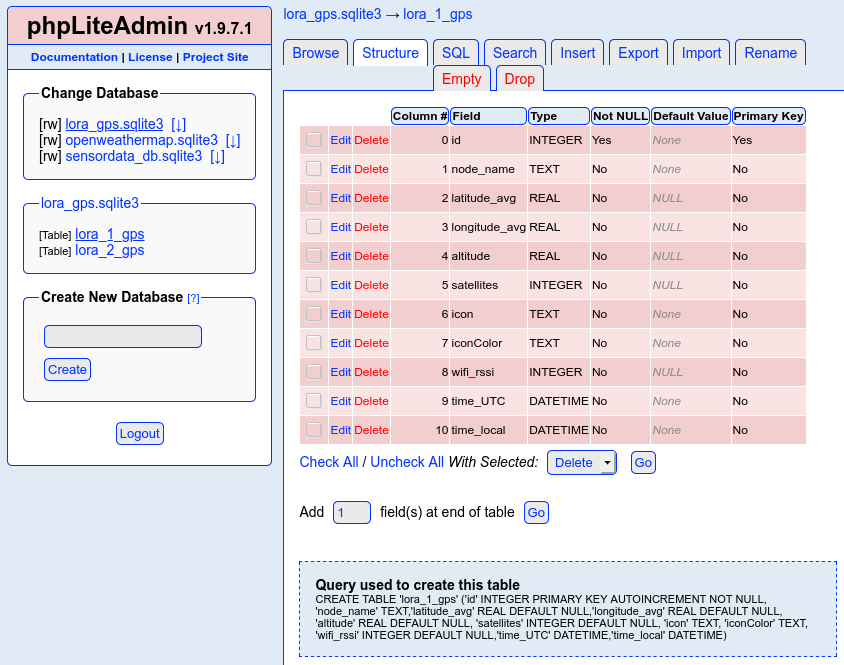
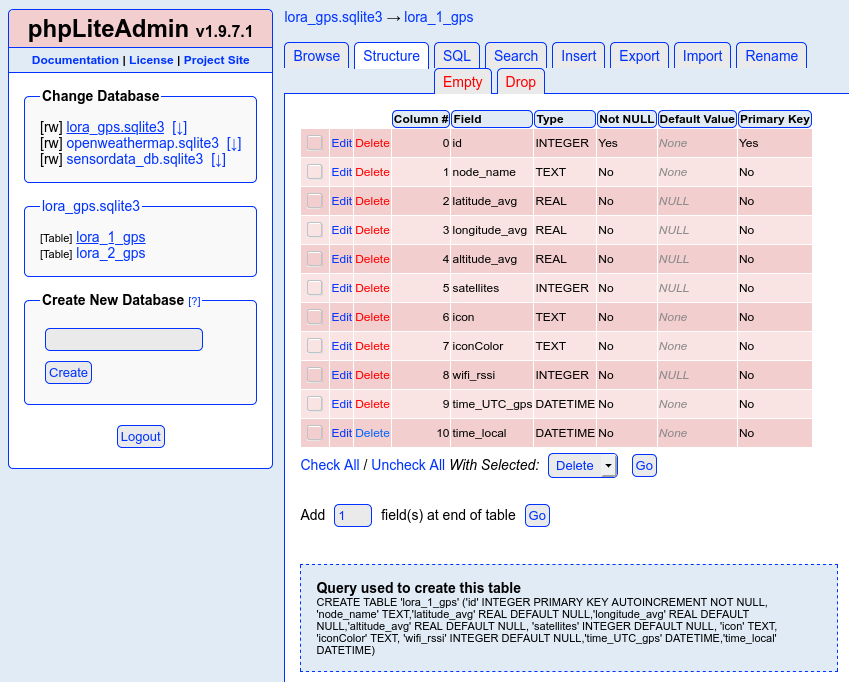
- smoothed altitude values with floating averages and floating medians - inserted smoothed and raw values in JsonObject (rebuild structure) - adapted Node-RED Flow to take average altitude values and store it to DB - edited SQLite columns

Changed region(s): [[0.0, 0.0, 0.955, 0.782], [0.3389, 0.812, 0.9858, 0.9925], [0.955, 0.8421, 1.0, 0.9925]]

diff --git a/src/function_mqtt.cpp b/src/function_mqtt.cpp
@@ -26,8 +26,10 @@ double g_d_latitude;
 double g_d_longitude;
 float g_f_lat_avg;
 float g_f_lng_avg;
+float g_f_alt_avg;
 float g_f_lat_median;
 float g_f_lng_median;
+float g_f_alt_median;
 
 void configureMqtt() {
   mqttClient.onConnect(onMqttConnect);
@@ -246,8 +248,8 @@ void mqtt_set_gps_valid(bool gps_valid) {
 void mqtt_set_gps_json( String sensor, String time, String location, String icon,
                         String iconColor, int satellites, double altitude,
                         int wifi_rssi, double latitude, double longitude,
-                        float lat_avg, float lng_avg,
-                        float lat_median, float lng_median ) {
+                        float lat_avg, float lng_avg, float alt_avg,
+                        float lat_median, float lng_median, float alt_median ) {
   g_str_sensor = sensor;
   g_str_time = time;
   g_str_location = location;
@@ -260,8 +262,10 @@ void mqtt_set_gps_json( String sensor, String time, String location, String icon
   g_d_longitude = longitude;
   g_f_lat_avg = lat_avg;
   g_f_lng_avg = lng_avg;
+  g_f_alt_avg = alt_avg;
   g_f_lat_median = lat_median;
   g_f_lng_median = lng_median;
+  g_f_alt_median = alt_median;
 }
 
 void mqttPub_gps_json() {
@@ -279,10 +283,10 @@ void mqttPub_gps_json() {
   // replaced by DynamicJsonDocument which allocates in the heap.
   //
   // Wichtig: muss bei Erweiterung des Json-Dokuments immer angepasst werden!
-  //          Es müssen 2 weitere Objektplätze reserviert werden, damit das
+  //          Es müssen 3 weitere Objektplätze reserviert werden, damit das
   //          JsonDocument vollständig übertragen wird. Warum??
   // Use https://arduinojson.org/v6/assistant to compute the capacity.
-  const size_t capacity = 3*JSON_ARRAY_SIZE(2+3) + JSON_OBJECT_SIZE(12+3);
+  const size_t capacity = 3*JSON_ARRAY_SIZE(3+3) + JSON_OBJECT_SIZE(10+3);
   DynamicJsonDocument JsonDoc(capacity);
 
   JsonObject Json_rootObj = JsonDoc.to<JsonObject>();
@@ -294,13 +298,10 @@ void mqttPub_gps_json() {
   Json_rootObj["icon"] = g_str_icon;
   Json_rootObj["iconColor"] = g_str_iconColor;
   Json_rootObj["satellites"] = g_i_satellites;
-  Json_rootObj["altitude"] = g_d_altitude;
+  // Json_rootObj["altitude"] = g_d_altitude;
   Json_rootObj["wifi_rssi"] = g_i_rssi_dBm;
 
-// #####################
-// @TODO: dtostrf-Aufrufe in Funktion verpacken!
-// #####################
-  // Add an location array.
+  // Add an location array (raw values).
   JsonArray gps_loc = Json_rootObj.createNestedArray("gps_loc");
   // gps_loc.add(51.003886167);
   // gps_loc.add(13.686812667);
@@ -318,6 +319,8 @@ void mqttPub_gps_json() {
   gps_loc.add(l_res);
   l_res = convertDouble2String(g_d_longitude, 12, 9); // convert double to string with desired precision 9
   gps_loc.add(l_res);
+  l_res = convertDouble2String(g_d_altitude, 12, 1); // convert double to string with desired precision 1
+  gps_loc.add(l_res);
 
   // Add an location array (avg).
   JsonArray gps_loc_avg = Json_rootObj.createNestedArray("gps_loc_avg");
@@ -331,9 +334,15 @@ void mqttPub_gps_json() {
   // dtostrf( g_f_lng_avg, 12, 9, str_value_2 ); // convert float/double to string with desired precision
   // gps_loc_avg.add(str_value_2);
 
+  // g_f_lat_avg = 51.00396666377;
+  // g_f_lng_avg = 13.68638666377;
+  // g_f_alt_avg = 278.457;
+
   l_res = convertDouble2String(g_f_lat_avg, 12, 9); // convert double to string with desired precision 9
   gps_loc_avg.add(l_res);
   l_res = convertDouble2String(g_f_lng_avg, 12, 9); // convert double to string with desired precision 9
+  gps_loc_avg.add(l_res);
+  l_res = convertDouble2String(g_f_alt_avg, 12, 1); // convert double to string with desired precision 1
   gps_loc_avg.add(l_res);
 
   // Add an location array (median).
@@ -351,6 +360,8 @@ void mqttPub_gps_json() {
   l_res = convertDouble2String(g_f_lat_median, 12, 9); // convert double to string with desired precision 9
   gps_loc_median.add(l_res);
   l_res = convertDouble2String(g_f_lng_median, 12, 9); // convert double to string with desired precision 9
+  gps_loc_median.add(l_res);
+  l_res = convertDouble2String(g_f_alt_median, 12, 1); // convert double to string with desired precision 1
   gps_loc_median.add(l_res);
 
   // // Generate the minified JSON and send it to the Serial port.
@@ -376,7 +387,7 @@ void mqttPub_gps_json() {
 }
 
 String convertDouble2String(double value, uint flt_positions, uint precision) {
-  char str_value[21];     //result string 20 positions + \0 at the end
+  char str_value[21];     //result string 20 positions + '\0' at the end
 
   if (flt_positions < precision) precision = flt_positions + 2; // sanitize precision
   if (flt_positions > 20) flt_positions = 20; // validate flt_positions (max 20 digits)

diff --git a/src/function_gps.cpp b/src/function_gps.cpp
@@ -27,6 +27,7 @@
 
 RunningAverage gps_RunningAVG_lat(GPS_AVG_FILTER_SIZE);  // RunningAverage object for gps latitude
 RunningAverage gps_RunningAVG_lng(GPS_AVG_FILTER_SIZE);  // RunningAverage object for gps longitude
+RunningAverage gps_RunningAVG_alt(GPS_AVG_FILTER_SIZE);  // RunningAverage object for gps altitude
 
 bool g_b_init_RunningAverage_values = false;
 
@@ -53,6 +54,7 @@ struct_gps_RunningAVG_Median g_avg;
 
 RunningMedian gps_RunningMedian_lat(GPS_MED_FILTER_SIZE);  // RunningMedian object for gps latitude
 RunningMedian gps_RunningMedian_lng(GPS_MED_FILTER_SIZE);  // RunningMedian object for gps longitude
+RunningMedian gps_RunningMedian_alt(GPS_MED_FILTER_SIZE);  // RunningMedian object for gps altitude
 
 // #if !defined(D5)
 //   #define D3 (0)
@@ -84,9 +86,11 @@ void initSS_gps() {
 
   gps_RunningAVG_lat.clear(); // explicitly start with a clean RunningAverage object
   gps_RunningAVG_lng.clear(); // explicitly start with a clean RunningAverage object
+  gps_RunningAVG_alt.clear(); // explicitly start with a clean RunningAverage object
 
   gps_RunningMedian_lat.clear(); // explicitly start with a clean RunningMedian object
   gps_RunningMedian_lng.clear(); // explicitly start with a clean RunningMedian object
+  gps_RunningMedian_alt.clear(); // explicitly start with a clean RunningMedian object
 
   // initialize the RunningAverage arrays with appropriate starting values (e. g. first raw value)
   g_b_init_RunningAverage_values = true;
@@ -165,6 +169,7 @@ void gps_RunningAVG_Median_addValues() {
     // number should preferably be between 1 and size
     gps_RunningAVG_lat.fillValue(gps.location.lat(), GPS_AVG_FILTER_SIZE); // GPS_AVG_FILTER_SIZE
     gps_RunningAVG_lng.fillValue(gps.location.lng(), GPS_AVG_FILTER_SIZE); // GPS_AVG_FILTER_SIZE
+    gps_RunningAVG_alt.fillValue(gps.altitude.meters(), GPS_AVG_FILTER_SIZE); // GPS_AVG_FILTER_SIZE
 
     // gps_RunningAVG_lat.fillValue(51.003935333, GPS_AVG_FILTER_SIZE); // GPS_AVG_FILTER_SIZE
     // gps_RunningAVG_lng.fillValue(13.686355833, GPS_AVG_FILTER_SIZE); // GPS_AVG_FILTER_SIZE
@@ -174,10 +179,12 @@ void gps_RunningAVG_Median_addValues() {
   else {
     gps_RunningAVG_lat.addValue(gps.location.lat());
     gps_RunningAVG_lng.addValue(gps.location.lng());
+    gps_RunningAVG_alt.addValue(gps.altitude.meters());
   }
 
   gps_RunningMedian_lat.add(gps.location.lat());
   gps_RunningMedian_lng.add(gps.location.lng());
+  gps_RunningMedian_alt.add(gps.altitude.meters());
 }
 
 // is called every 2 seconds in main loop
@@ -186,14 +193,19 @@ struct_gps_RunningAVG_Median get_gps_RunningAVG_Median() {
 
   g_avg.gps_RunningAVG_lat = gps_RunningAVG_lat.getAverage();
   g_avg.gps_RunningAVG_lng = gps_RunningAVG_lng.getAverage();
+  g_avg.gps_RunningAVG_alt = gps_RunningAVG_alt.getAverage();
 
   g_avg.gps_RunningMedian_lat = gps_RunningMedian_lat.getMedian();
   g_avg.gps_RunningMedian_lng = gps_RunningMedian_lng.getMedian();
+  g_avg.gps_RunningMedian_alt = gps_RunningMedian_alt.getMedian();
 
   g_avg.gps_RunningAVG_lat_size = gps_RunningAVG_lat.getSize();
   g_avg.gps_RunningAVG_lng_size = gps_RunningAVG_lng.getSize();
+  g_avg.gps_RunningAVG_alt_size = gps_RunningAVG_alt.getSize();
+
   g_avg.gps_RunningAVG_lat_cnt = gps_RunningAVG_lat.getCount();
   g_avg.gps_RunningAVG_lng_cnt = gps_RunningAVG_lng.getCount();
+  g_avg.gps_RunningAVG_alt_cnt = gps_RunningAVG_alt.getCount();
 
   return g_avg;
 }

diff --git a/src/main.cpp b/src/main.cpp
@@ -105,6 +105,7 @@ void loop() {
       g_s_gps_avg = get_gps_RunningAVG_Median();
 
       if (g_s_gps_values.location.isValid()) {
+      // if (true) { // only for testing purpose!
         Serial.print("Latitude  : ");
         Serial.print(g_s_gps_values.location.lat(), 9);
         Serial.print(char(176));                            // ° symbol
@@ -114,13 +115,16 @@ void loop() {
         Serial.print(char(176));                            // ° symbol
         Serial.println(" E");
         Serial.print("Lat (AVG) : ");
-        Serial.print(g_s_gps_avg.gps_RunningMedian_lat, 9);
+        Serial.print(g_s_gps_avg.gps_RunningAVG_lat, 9);
         Serial.print(char(176));                            // ° symbol
         Serial.println(" N");
         Serial.print("Lng (AVG) : ");
-        Serial.print(g_s_gps_avg.gps_RunningMedian_lng, 9);
+        Serial.print(g_s_gps_avg.gps_RunningAVG_lng, 9);
         Serial.print(char(176));                            // ° symbol
         Serial.println(" E");
+        Serial.print("Elevation : ");
+        Serial.print(g_s_gps_avg.gps_RunningAVG_alt);
+        Serial.println(" m");
 
         Serial.print("Lat (AVG) Buffer size: ");
         Serial.print(g_s_gps_avg.gps_RunningAVG_lat_size);
@@ -130,12 +134,13 @@ void loop() {
         Serial.print(g_s_gps_avg.gps_RunningAVG_lng_size);
         Serial.print(", Buffer count: ");
         Serial.println(g_s_gps_avg.gps_RunningAVG_lng_cnt);
+        Serial.print("Alt (AVG) Buffer size: ");
+        Serial.print(g_s_gps_avg.gps_RunningAVG_alt_size);
+        Serial.print(", Buffer count: ");
+        Serial.println(g_s_gps_avg.gps_RunningAVG_alt_cnt);
 
         Serial.print("Satellites: ");
         Serial.println(g_s_gps_values.satellites.value());
-        Serial.print("Elevation : ");
-        Serial.print(g_s_gps_values.altitude.meters());
-        Serial.println(" m");
         Serial.print("Time Raw  : ");
         Serial.println(g_s_gps_values.time.value());        // raw time
         Serial.print("Time UTC  : ");
@@ -174,8 +179,10 @@ void loop() {
                           g_s_gps_values.location.lng(),
                           g_s_gps_avg.gps_RunningAVG_lat,
                           g_s_gps_avg.gps_RunningAVG_lng,
+                          g_s_gps_avg.gps_RunningAVG_alt,
                           g_s_gps_avg.gps_RunningMedian_lat,
-                          g_s_gps_avg.gps_RunningMedian_lng);
+                          g_s_gps_avg.gps_RunningMedian_lng,
+                          g_s_gps_avg.gps_RunningMedian_alt);
       }
       else {
         Serial.println("#### No GPS Signal .. ####");

diff --git a/src/function_mqtt.hpp b/src/function_mqtt.hpp
@@ -32,8 +32,8 @@ void mqtt_set_gps_valid(bool gps_valid);
 void mqtt_set_gps_json( String sensor, String time, String location, String icon,
                         String iconColor, int satellites, double altitude,
                         int wifi_rssi, double latitude, double longitude,
-                        float lat_avg, float lng_avg,
-                        float lat_median, float lng_median );
+                        float lat_avg, float lng_avg, float alt_avg,
+                        float lat_median, float lng_median, float alt_median );
 void mqttPub_gps_json();
 
 String convertDouble2String(double value, uint flt_positions, uint precision);

diff --git a/src/function_gps.hpp b/src/function_gps.hpp
@@ -15,13 +15,18 @@
 struct struct_gps_RunningAVG_Median {
   float gps_RunningAVG_lat;
   float gps_RunningAVG_lng;
+  float gps_RunningAVG_alt;
+
   float gps_RunningMedian_lat;
   float gps_RunningMedian_lng;
+  float gps_RunningMedian_alt;
 
   uint8_t gps_RunningAVG_lat_size;
   uint8_t gps_RunningAVG_lng_size;
+  uint8_t gps_RunningAVG_alt_size;
   uint8_t gps_RunningAVG_lat_cnt;
   uint8_t gps_RunningAVG_lng_cnt;
+  uint8_t gps_RunningAVG_alt_cnt;
 };
 
 void initSS_gps();
